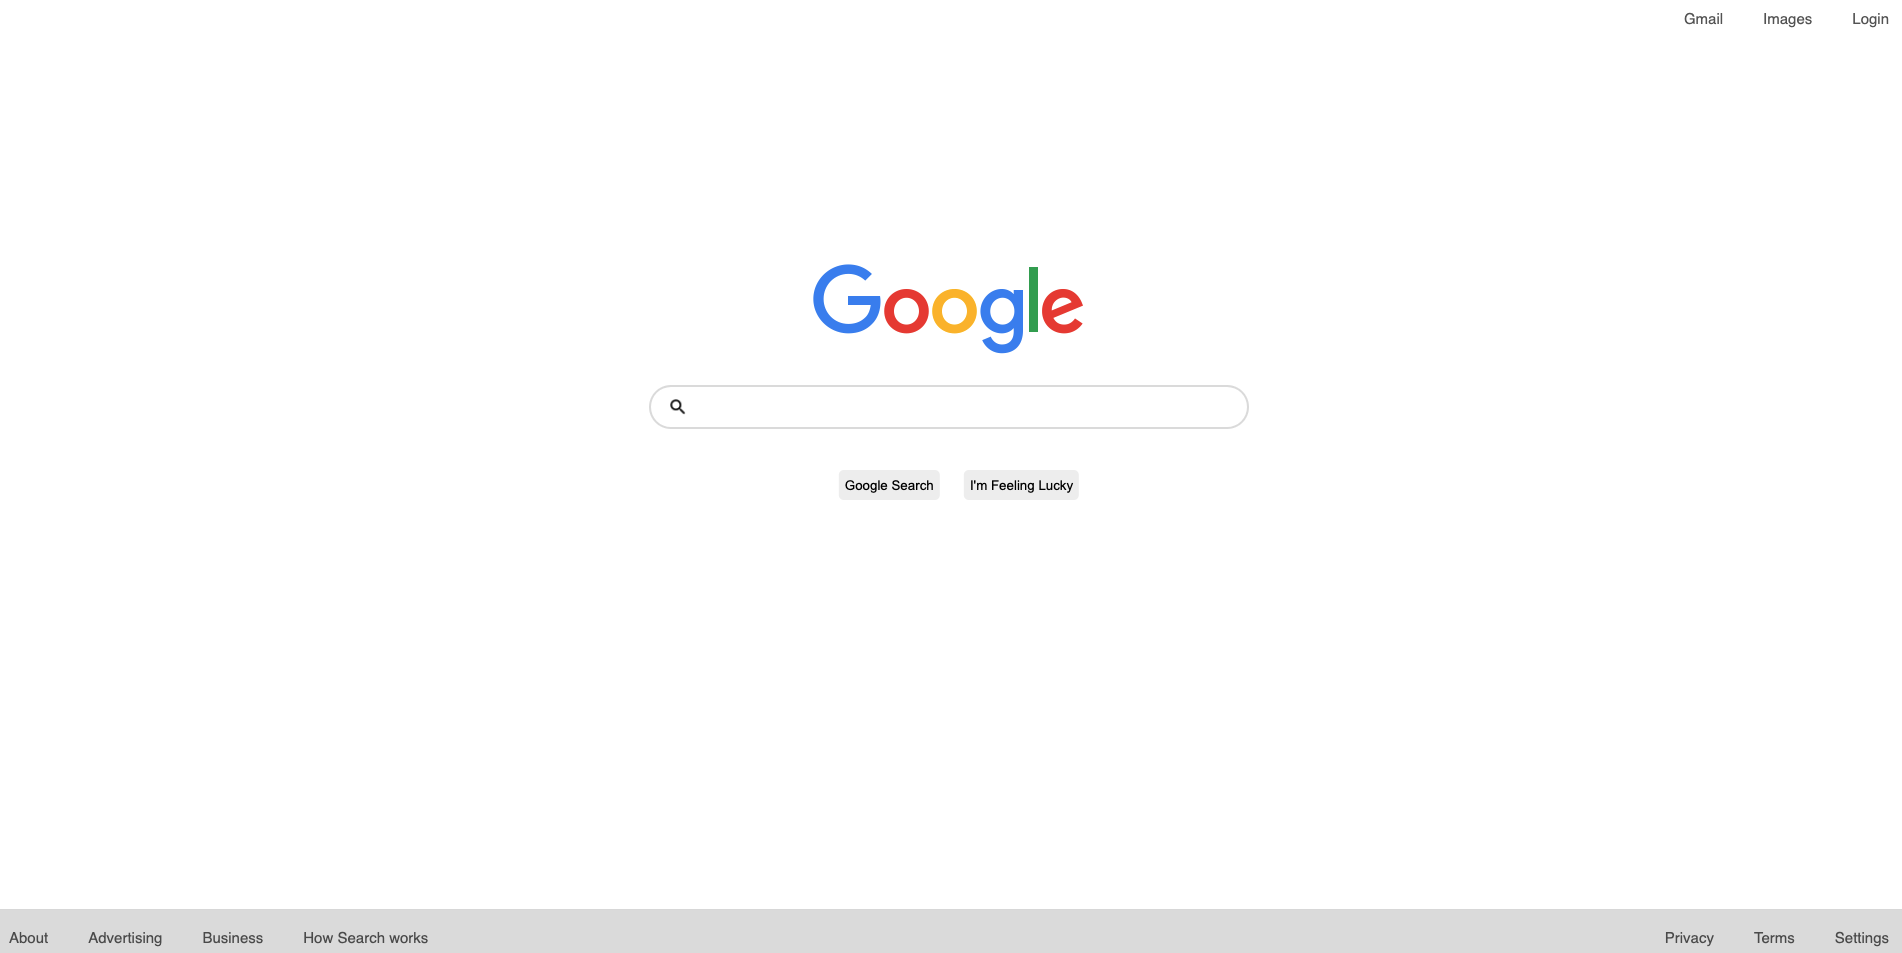
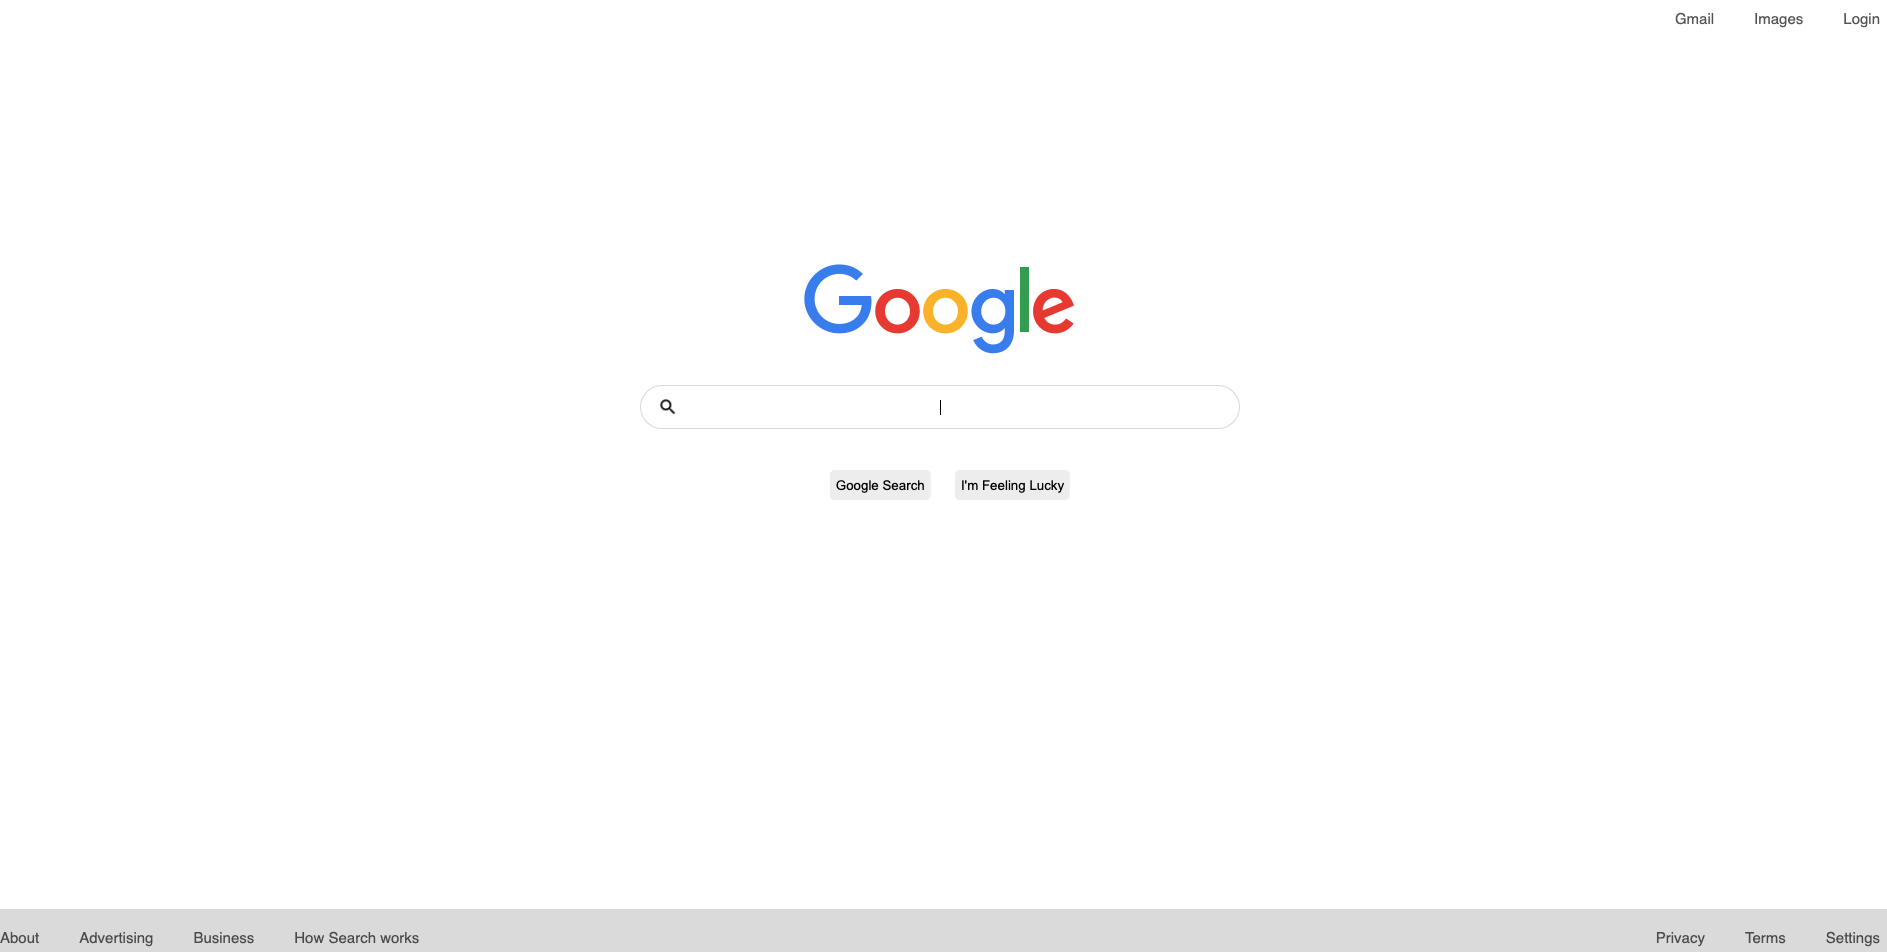
Update preview image, make search input border thin

diff --git a/styles/main.css b/styles/main.css
@@ -1,111 +1,113 @@
 * {
-    box-sizing: border-box;
+  box-sizing: border-box;
 }
 
 body {
-    background-color: hsl(0, 0%, 100%);
-    font-family: sans-serif;
-    font-size: 15px;
-    width: 100vw;
-    height: 100vh;
+  background-color: hsl(0, 0%, 100%);
+  font-family: sans-serif;
+  font-size: 15px;
+  width: 100vw;
+  height: 100vh;
 }
 
 #navigation {
-    position: absolute;
-    width: 100%;
+  position: absolute;
+  width: 100%;
 }
 
 #logo {
-    position: absolute;
-    left: 50%;
-    top: 33%;
-    transform: translate(-50%, -50%);
-    display: flex;
-    flex-direction: row;
-    justify-content: center;
+  position: absolute;
+  left: 50%;
+  top: 33%;
+  transform: translate(-50%, -50%);
+  display: flex;
+  flex-direction: row;
+  justify-content: center;
 }
 
 #q {
-    position: absolute;
-    text-align: center;
-    left: 50%;
-    top: 43%;
-    transform: translate(-50%, -50%);
-    width: 600px;
-    height: 44px;
-    border: 2px solid hsla(0, 0%, 75%, 0.5);
-    border-radius: 360px;
-    -moz-border-radius: 360px;
-    -webkit-border-radius: 360px;
-    background: white url("../images/search-icon.png") 3% no-repeat;
-    background-size: 20px;
+  position: absolute;
+  text-align: center;
+  left: 50%;
+  top: 43%;
+  transform: translate(-50%, -50%);
+  width: 600px;
+  height: 44px;
+  border: 2px solid hsla(0, 0%, 75%, 0.5);
+  border-radius: 360px;
+  border-width: thin;
+  -moz-border-radius: 360px;
+  -webkit-border-radius: 360px;
+  background: white url("../images/search-icon.png") 3% no-repeat;
+  background-size: 20px;
 }
 
 #q:hover {
-    transition: box-shadow 0.5s;
-    box-shadow: 4px 4px 4px hsla(0, 0%, 50%, 0.5);
+  transition: box-shadow 0.5s;
+  box-shadow: 4px 4px 4px hsla(0, 0%, 50%, 0.5);
+  outline: none;
 }
 
 #q:focus {
-    outline-width: 0;
+  outline-width: 0;
 }
 
 #btn {
-    position: absolute;
-    text-align: center;
-    display: inline-block;
-    left: 50%;
-    top: 50%;
-    transform: translate(-50%, -50%);
-    margin: 10px;
+  position: absolute;
+  text-align: center;
+  display: inline-block;
+  left: 50%;
+  top: 50%;
+  transform: translate(-50%, -50%);
+  margin: 10px;
 }
 
 #btn button {
-    height: 30px;
-    margin: 10px;
-    background-color: hsla(0, 0%, 75%, 0.5) solid;
-    border: 0;
-    border-radius: 5px;
-    -moz-border-radius: 5px;
-    -webkit-border-radius: 5px;
+  height: 30px;
+  margin: 10px;
+  background-color: hsla(0, 0%, 75%, 0.5) solid;
+  border: 0;
+  border-radius: 5px;
+  -moz-border-radius: 5px;
+  -webkit-border-radius: 5px;
 }
 
 #btn button:hover {
-    outline: auto lightgray;
-    outline-style: round;
+  outline: auto lightgray;
+  outline-style: round;
 }
 
 #footer {
-    position: absolute;
-    width: 100%;
-    height: 50px;
-    bottom: 0px;
-    background-color: hsla(0, 0%, 75%, 0.5);
-    border-top-width: 1px;
-    border-top-style: solid;
-    border-top-color: hsla(0, 0%, 85%, 0.5);
+  position: absolute;
+  width: 100%;
+  height: 50px;
+  bottom: 0px;
+  background-color: hsla(0, 0%, 75%, 0.5);
+  border-top-width: 1px;
+  border-top-style: solid;
+  border-top-color: hsla(0, 0%, 85%, 0.5);
 }
 
 a {
-    margin: 5px;
-    margin-top: 5px;
-    color: hsla(0, 0%, 10%, 0.7);
-    text-decoration: none;
-    padding: 15px;
+  margin: 5px;
+  margin-top: 5px;
+  color: hsla(0, 0%, 10%, 0.7);
+  text-decoration: none;
+  padding: 15px;
 }
 
 a:hover {
-    text-decoration: underline;
+  text-decoration: underline;
 }
 
 .left {
-    text-align: left;
-    float: left;
-    margin: 5px;
+  text-align: left;
+  float: left;
+  margin: 5px;
 }
 
 .right {
-    text-align: right;
-    float: right;
-    margin: 5px;
+  text-align: right;
+  float: right;
+  margin: 5px;
 }
